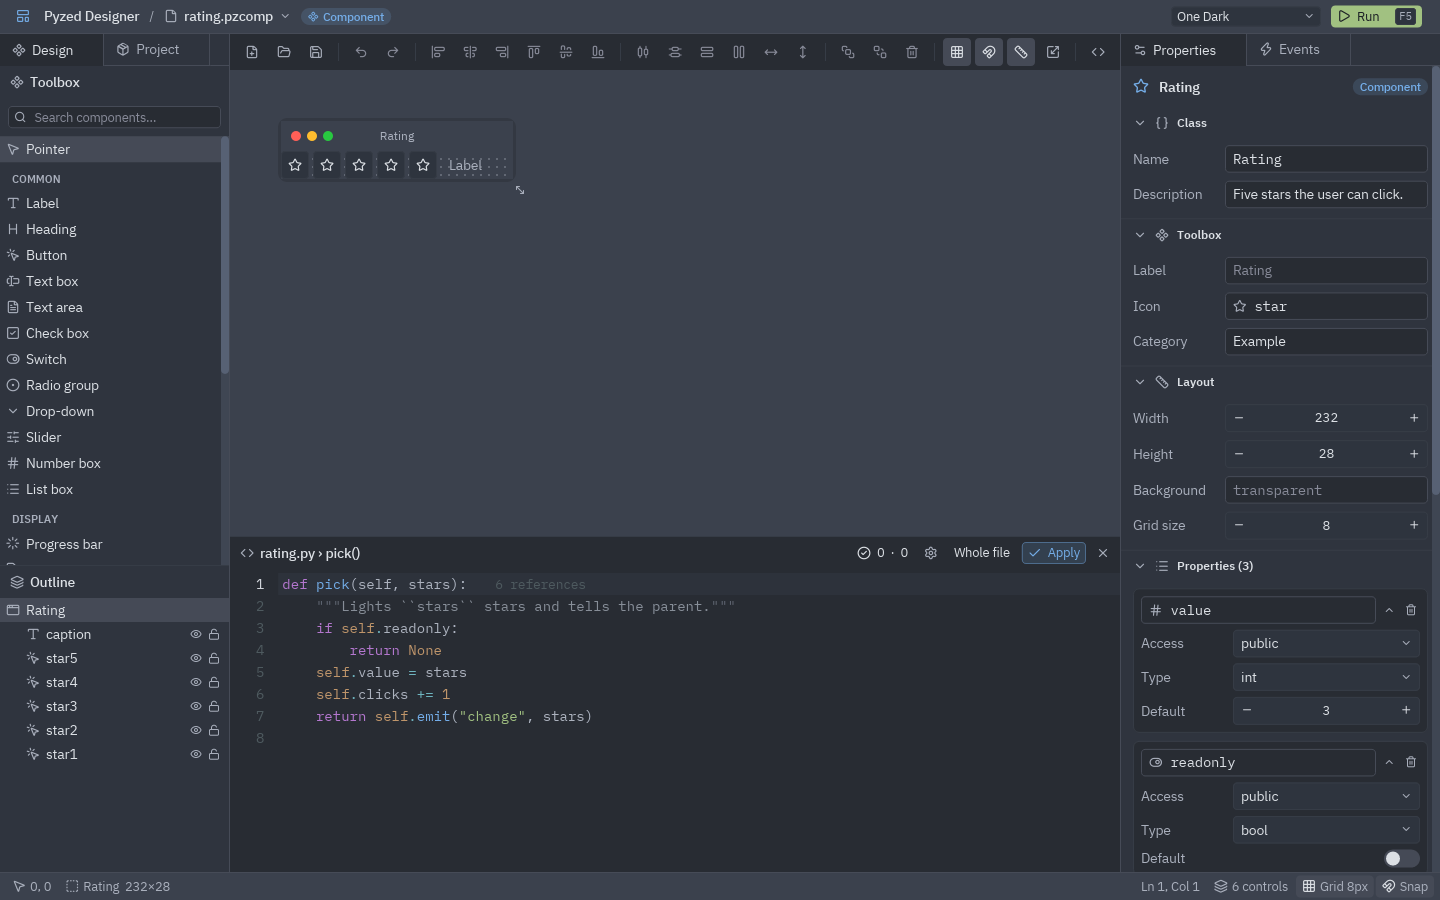
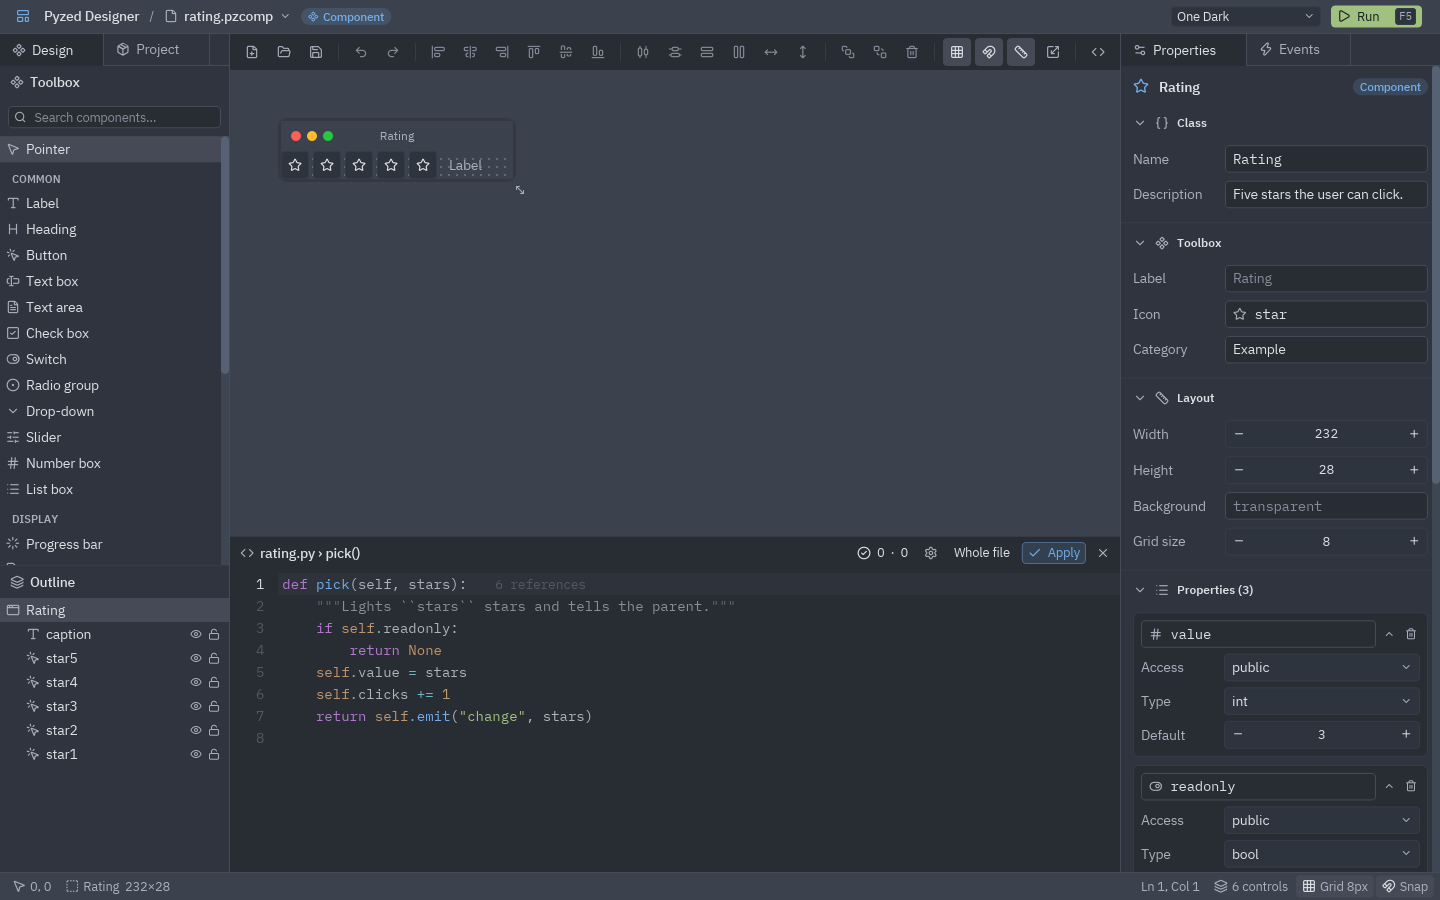
♻ Match ui.accordion's signature with the designer panels and line up the member cards

diff --git a/python/pyzed/designer/scene_panel.py b/python/pyzed/designer/scene_panel.py
@@ -68,12 +68,15 @@ def _toggle(d: "Designer") -> Callable[[str], None]:
     return flip
 
 
-def field(title: str, editor: Any, t: Theme, *, tip: str = "") -> Any:
-    """A label and its editor; every row of the panel shares the label width, so editors line up."""
+def field(title: str, editor: Any, t: Theme, *, tip: str = "", inset: float = 0) -> Any:
+    """A label and its editor; every row of the panel shares the label width, so editors line up.
+
+    ``inset`` is how far the row is pushed right (inside a card), so its editor still lines up.
+    """
     text = ui.label(title, color="text_muted", wrap=False, theme=t)
     if tip:
         text = ui.tooltip(text, tip, theme=t)
-    return _core.row([_core.container(text, width=LABEL, clip=True), _core.container(editor, width="fill")],
+    return _core.row([_core.container(text, width=LABEL - inset, clip=True), _core.container(editor, width="fill")],
                      spacing=8, align="center", width="fill")
 
 
@@ -86,7 +89,7 @@ def _number(value: float, on_change: Callable[[Any], Any], t: Theme, **kwargs: A
 
 
 def _accordion(d: "Designer", sections: List[Any], t: Theme) -> Any:
-    return ui.accordion(sections, _open(d), _toggle(d), theme=t)
+    return ui.accordion(sections, open=_open(d), on_toggle=_toggle(d), theme=t)
 
 
 # -- the Component panel -------------------------------------------------------------
@@ -177,8 +180,12 @@ def member_section(d: "Designer", t: Theme) -> Any:
     return ui.AccordionSection("properties", f"Properties ({len(doc.members)})", _stack(rows), icon="list")
 
 
+CARD_PADDING = 8.0
+CARD_INSET = CARD_PADDING + 1  # padding plus border: rows inside a card use it to line up with the panel
+
+
 def _card(rows: List[Any], t: Theme) -> Any:
-    return _core.container(_core.column(rows, spacing=6, width="fill"), padding=8, width="fill", bg=t.editor,
+    return _core.container(_core.column(rows, spacing=6, width="fill"), padding=CARD_PADDING, width="fill", bg=t.editor,
                            border_color=t.border_variant, border_width=1, radius=t.radius)
 
 
@@ -204,9 +211,9 @@ def _card_of_member(d: "Designer", m: scene_code.Member, t: Theme) -> Any:
                        lambda v: update(public=v == "public"), width="fill", theme=t)
     return _card([
         head,
-        field("Access", access, t, tip="Public: a prop the parent passes. Private: state declared with pz.state."),
-        field("Type", ui.select(types_, m.type, lambda v: update(type=v), width="fill", theme=t), t),
-        field("Default", _default_editor(m, lambda v: update(default=v), t), t),
+        field("Access", access, t, tip="Public: a prop the parent passes. Private: state declared with pz.state.", inset=CARD_INSET),
+        field("Type", ui.select(types_, m.type, lambda v: update(type=v), width="fill", theme=t), t, inset=CARD_INSET),
+        field("Default", _default_editor(m, lambda v: update(default=v), t), t, inset=CARD_INSET),
     ], t)
 
 
@@ -246,7 +253,7 @@ def event_section(d: "Designer", t: Theme) -> Any:
                                tooltip="Remove", theme=t),
             ], spacing=4, align="center"),
             field("Description", ui.input(description, lambda v, n=name: _guard(d, lambda: doc.update_event(
-                n, description=v)), placeholder="What it means", theme=t), t),
+                n, description=v)), placeholder="What it means", theme=t), t, inset=CARD_INSET),
         ], t))
     if not events:
         rows.append(_hint("Raise them from a method with self.emit(\"name\", value); the parent handles them "

diff --git a/python/pyzed/ui/controls.py b/python/pyzed/ui/controls.py
@@ -296,29 +296,39 @@ class AccordionSection(NamedTuple):
 
 def accordion(
     sections: Sequence[Any],
-    open: Any,  # noqa: A002
-    on_toggle: Optional[Callable[[str], Any]] = None,
     *,
+    open: Any = (),  # noqa: A002
+    on_toggle: Optional[Callable[[str], Any]] = None,
+    icons: Optional[Mapping[str, str]] = None,
+    spacing: float = 8,
     padding: Any = (6, 12, 10, 12),
     theme: Optional[Theme] = None,
 ) -> _core.Widget:
     """Stacked collapsible sections separated by dividers, like the panels of Zed's settings.
 
-    ``sections`` are ``AccordionSection`` (or ``(key, title, content)`` tuples); ``open`` is
-    the set of open keys (or a ``{key: bool}`` dict) and ``on_toggle(key)`` flips one. The
-    header spans the whole width, so content lines up with the rest of the panel.
+    ``sections`` are ``(id, title, content)`` tuples or ``AccordionSection`` items; ``open``
+    is the set of open ids (or a ``{id: bool}`` dict, or ``True`` for all) and
+    ``on_toggle(id)`` flips one. ``icons`` maps ids to Lucide icons and ``spacing`` is the
+    space around the dividers between sections. Headers span the
+    whole width, so content lines up with the rest of the panel.
     """
     t = _theme(theme)
-    is_open = (lambda k: bool(open.get(k, False))) if isinstance(open, Mapping) else (lambda k: k in open)
+    if open is True:
+        is_open = lambda k: True  # noqa: E731
+    elif isinstance(open, Mapping):
+        is_open = lambda k: bool(open.get(k, False))  # noqa: E731
+    else:
+        is_open = lambda k: k in open  # noqa: E731
     parts: list = []
     for index, raw in enumerate(sections):
         section = raw if isinstance(raw, AccordionSection) else AccordionSection(*raw)
         shown = is_open(section.key)
+        icon_name = section.icon or (icons or {}).get(section.key)
         header = _core.button(
             _core.row(
                 [
                     _icon("chevron-down" if shown else "chevron-right", size=14, color=t.icon_muted),
-                    _icon(section.icon, size=14, color=t.icon_muted) if section.icon else None,
+                    _icon(icon_name, size=14, color=t.icon_muted) if icon_name else None,
                     label(section.title, size="sm", weight="semibold", wrap=False, theme=t),
                     _core.space(width="fill"),
                 ],
@@ -336,7 +346,8 @@ def accordion(
             header = _core.stack([header, _core.container(section.end, width="fill", height="fill",
                                                           align_x="end", align_y="center", padding=(0, 8))])
         if index:
-            parts.append(_core.container(width="fill", height=1, bg=t.border_variant))
+            parts.append(_core.container(_core.container(width="fill", height=1, bg=t.border_variant),
+                                         width="fill", padding=(spacing / 2, 0)))
         parts.append(header)
         if shown:
             parts.append(_core.container(section.content, width="fill", padding=padding))

diff --git a/docs/scripts/api_docs_es.py b/docs/scripts/api_docs_es.py
@@ -1098,12 +1098,12 @@ _section("ui", "Controles", {
     },
     "pyzed.ui.accordion": {
         "desc": "Secciones plegables apiladas y separadas por divisores, como los paneles de los ajustes de Zed. Cada cabecera ocupa todo el ancho, así que el contenido queda alineado con el resto del panel. El estado abierto es tuyo: cámbialo en `on_toggle`.",
-        "params": {"sections": "Elementos `ui.AccordionSection(key, title, content, icon=None, end=None)` (o tuplas `(key, title, content)`).", "open": "El conjunto de claves abiertas, o un dict `{clave: bool}`.", "on_toggle": "Se llama con la clave de la cabecera pulsada.", "padding": "Relleno alrededor del contenido de una sección abierta."},
+        "params": {"sections": "Elementos `ui.AccordionSection(key, title, content, icon=None, end=None)` (o tuplas `(key, title, content)`).", "open": "El conjunto de ids abiertos, un dict `{id: bool}` o `True` para todos.", "on_toggle": "Se llama con la clave de la cabecera pulsada.", "icons": "`{id: icono}`: un icono de Lucide para cada cabecera.", "spacing": "Espacio alrededor de los divisores entre secciones.", "padding": "Relleno alrededor del contenido de una sección abierta."},
         "example": """
             ui.accordion([
                 ui.AccordionSection("layout", "Layout", layout_rows, icon="ruler"),
                 ui.AccordionSection("events", "Events", event_rows, icon="zap"),
-            ], self.open_sections, lambda key: self.open_sections.symmetric_difference_update({key}))
+            ], open=self.open_sections, on_toggle=lambda key: self.open_sections.symmetric_difference_update({key}))
         """,
     },
 }, before="Listas, árbol y menús")

diff --git a/docs/scripts/api_docs_en.py b/docs/scripts/api_docs_en.py
@@ -1098,12 +1098,12 @@ _section("ui", "Controls", {
     },
     "pyzed.ui.accordion": {
         "desc": "Stacked collapsible sections separated by dividers, like the panels of Zed's settings. Each header spans the whole width, so the content lines up with the rest of the panel. You own the open state: change it in `on_toggle`.",
-        "params": {"sections": "`ui.AccordionSection(key, title, content, icon=None, end=None)` items (or `(key, title, content)` tuples).", "open": "The set of open keys, or a `{key: bool}` dict.", "on_toggle": "Called with the key of the clicked header.", "padding": "Padding around the content of an open section."},
+        "params": {"sections": "`ui.AccordionSection(key, title, content, icon=None, end=None)` items (or `(key, title, content)` tuples).", "open": "The set of open ids, a `{id: bool}` dict, or `True` for all.", "on_toggle": "Called with the key of the clicked header.", "icons": "`{id: icon}`: a Lucide icon for each header.", "spacing": "Space around the dividers between sections.", "padding": "Padding around the content of an open section."},
         "example": """
             ui.accordion([
                 ui.AccordionSection("layout", "Layout", layout_rows, icon="ruler"),
                 ui.AccordionSection("events", "Events", event_rows, icon="zap"),
-            ], self.open_sections, lambda key: self.open_sections.symmetric_difference_update({key}))
+            ], open=self.open_sections, on_toggle=lambda key: self.open_sections.symmetric_difference_update({key}))
         """,
     },
 }, before="Lists, tree and menus")

diff --git a/docs/src/content/docs/es/reference/ui.md b/docs/src/content/docs/es/reference/ui.md
@@ -595,7 +595,16 @@ Una sección de `ui.accordion`: `key`, `title`, `content` y, opcionales, `icon` 
 ### `accordion`
 
 ```python
-accordion(sections, open, on_toggle=None, *, padding=(6, 12, 10, 12), theme=None)
+accordion(
+    sections,
+    *,
+    open=(),
+    on_toggle=None,
+    icons=None,
+    spacing=8,
+    padding=(6, 12, 10, 12),
+    theme=None,
+)
 ```
 
 Secciones plegables apiladas y separadas por divisores, como los paneles de los ajustes de Zed. Cada cabecera ocupa todo el ancho, así que el contenido queda alineado con el resto del panel. El estado abierto es tuyo: cámbialo en `on_toggle`.
@@ -603,8 +612,10 @@ Secciones plegables apiladas y separadas por divisores, como los paneles de los 
 | Parámetro | Descripción |
 | --- | --- |
 | `sections` | Elementos `ui.AccordionSection(key, title, content, icon=None, end=None)` (o tuplas `(key, title, content)`). |
-| `open` | El conjunto de claves abiertas, o un dict `{clave: bool}`. |
+| `open` | El conjunto de ids abiertos, un dict `{id: bool}` o `True` para todos. |
 | `on_toggle` | Se llama con la clave de la cabecera pulsada. |
+| `icons` | `{id: icono}`: un icono de Lucide para cada cabecera. |
+| `spacing` | Espacio alrededor de los divisores entre secciones. |
 | `padding` | Relleno alrededor del contenido de una sección abierta. |
 | `theme` | Tema a usar en lugar del actual (`pyzed.theme.current()`). |
 
@@ -612,7 +623,7 @@ Secciones plegables apiladas y separadas por divisores, como los paneles de los 
 ui.accordion([
     ui.AccordionSection("layout", "Layout", layout_rows, icon="ruler"),
     ui.AccordionSection("events", "Events", event_rows, icon="zap"),
-], self.open_sections, lambda key: self.open_sections.symmetric_difference_update({key}))
+], open=self.open_sections, on_toggle=lambda key: self.open_sections.symmetric_difference_update({key}))
 ```
 
 ## Datos y feedback

diff --git a/docs/src/content/docs/reference/ui.md b/docs/src/content/docs/reference/ui.md
@@ -595,7 +595,16 @@ One section of `ui.accordion`: `key`, `title`, `content` and optional `icon` and
 ### `accordion`
 
 ```python
-accordion(sections, open, on_toggle=None, *, padding=(6, 12, 10, 12), theme=None)
+accordion(
+    sections,
+    *,
+    open=(),
+    on_toggle=None,
+    icons=None,
+    spacing=8,
+    padding=(6, 12, 10, 12),
+    theme=None,
+)
 ```
 
 Stacked collapsible sections separated by dividers, like the panels of Zed's settings. Each header spans the whole width, so the content lines up with the rest of the panel. You own the open state: change it in `on_toggle`.
@@ -603,8 +612,10 @@ Stacked collapsible sections separated by dividers, like the panels of Zed's set
 | Parameter | Description |
 | --- | --- |
 | `sections` | `ui.AccordionSection(key, title, content, icon=None, end=None)` items (or `(key, title, content)` tuples). |
-| `open` | The set of open keys, or a `{key: bool}` dict. |
+| `open` | The set of open ids, a `{id: bool}` dict, or `True` for all. |
 | `on_toggle` | Called with the key of the clicked header. |
+| `icons` | `{id: icon}`: a Lucide icon for each header. |
+| `spacing` | Space around the dividers between sections. |
 | `padding` | Padding around the content of an open section. |
 | `theme` | Theme to use instead of the current one (`pyzed.theme.current()`). |
 
@@ -612,7 +623,7 @@ Stacked collapsible sections separated by dividers, like the panels of Zed's set
 ui.accordion([
     ui.AccordionSection("layout", "Layout", layout_rows, icon="ruler"),
     ui.AccordionSection("events", "Events", event_rows, icon="zap"),
-], self.open_sections, lambda key: self.open_sections.symmetric_difference_update({key}))
+], open=self.open_sections, on_toggle=lambda key: self.open_sections.symmetric_difference_update({key}))
 ```
 
 ## Data and feedback
